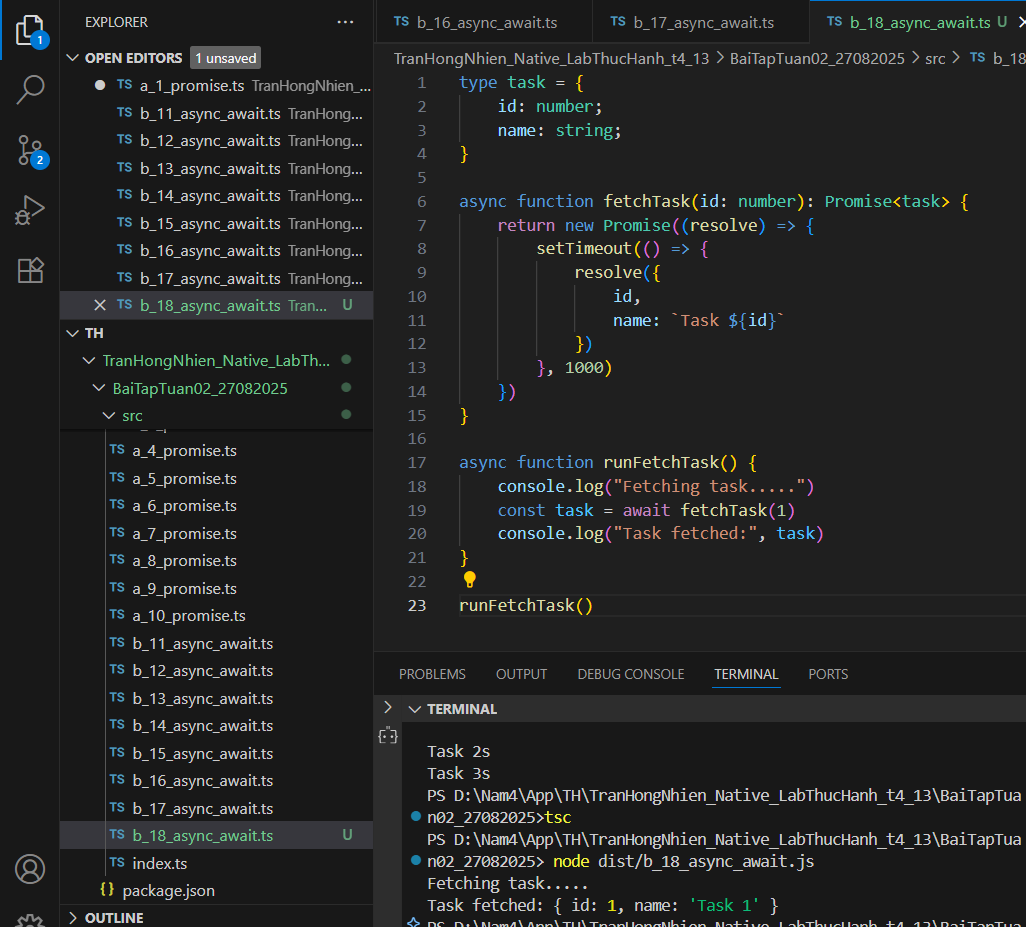
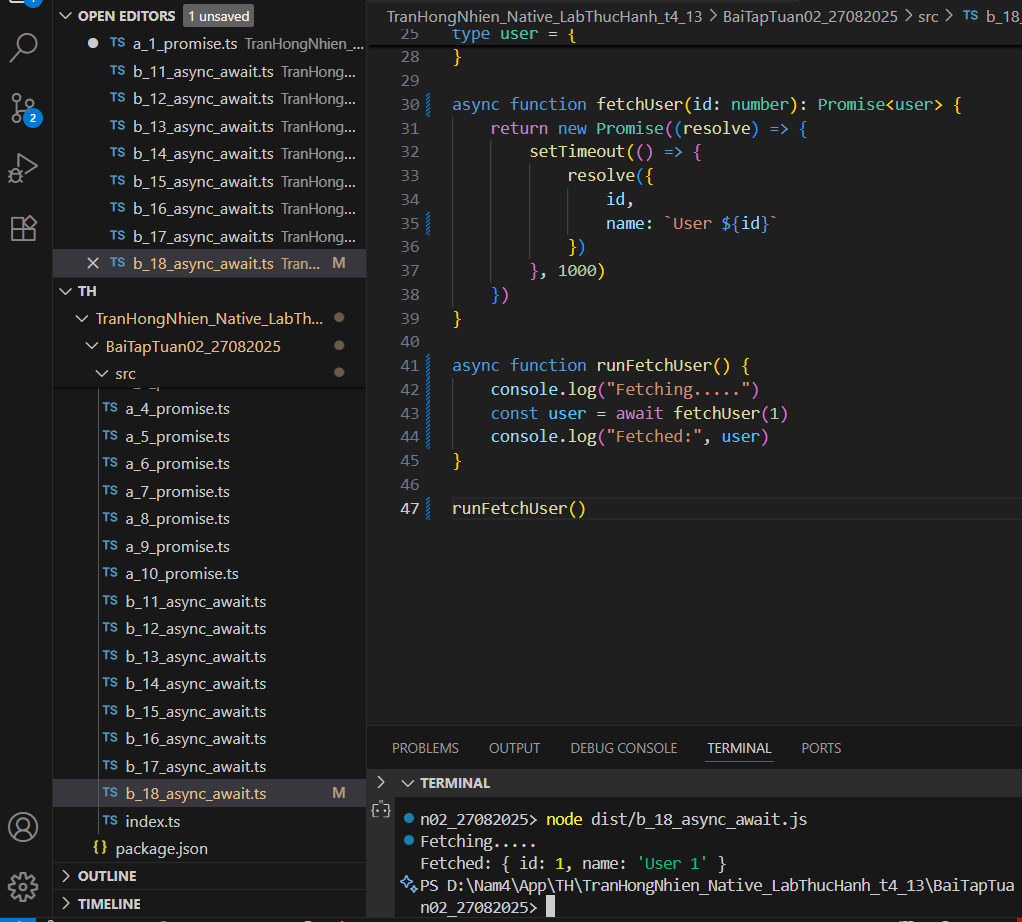
Lab 2. B. 18 - fetchUser

diff --git a/BaiTapTuan02_27082025/src/b_18_async_await.ts b/BaiTapTuan02_27082025/src/b_18_async_await.ts
@@ -1,23 +1,47 @@
-type task = {
+// type task = {
+//     id: number;
+//     name: string;
+// }
+
+// async function fetchTask(id: number): Promise<task> {
+//     return new Promise((resolve) => {
+//         setTimeout(() => {
+//             resolve({
+//                 id,
+//                 name: `Task ${id}`
+//             })
+//         }, 1000)
+//     })
+// }
+
+// async function runFetchTask() {
+//     console.log("Fetching task.....")
+//     const task = await fetchTask(1)
+//     console.log("Task fetched:", task)
+// }
+
+// runFetchTask()
+
+type user = {
     id: number;
     name: string;
 }
 
-async function fetchTask(id: number): Promise<task> {
+async function fetchUser(id: number): Promise<user> {
     return new Promise((resolve) => {
         setTimeout(() => {
             resolve({
                 id,
-                name: `Task ${id}`
+                name: `User ${id}`
             })
         }, 1000)
     })
 }
 
-async function runFetchTask() {
-    console.log("Fetching task.....")
-    const task = await fetchTask(1)
-    console.log("Task fetched:", task)
+async function runFetchUser() {
+    console.log("Fetching.....")
+    const user = await fetchUser(1)
+    console.log("Fetched:", user)
 }
 
-runFetchTask()
+runFetchUser()

diff --git a/BaiTapTuan02_27082025/dist/b_18_async_await.js b/BaiTapTuan02_27082025/dist/b_18_async_await.js
@@ -1,17 +1,21 @@
 "use strict";
-async function fetchTask(id) {
+// type task = {
+//     id: number;
+//     name: string;
+// }
+async function fetchUser(id) {
     return new Promise((resolve) => {
         setTimeout(() => {
             resolve({
                 id,
-                name: `Task ${id}`
+                name: `User ${id}`
             });
         }, 1000);
     });
 }
-async function runFetchTask() {
-    console.log("Fetching task.....");
-    const task = await fetchTask(1);
-    console.log("Task fetched:", task);
+async function runFetchUser() {
+    console.log("Fetching.....");
+    const user = await fetchUser(1);
+    console.log("Fetched:", user);
 }
-runFetchTask();
+runFetchUser();
